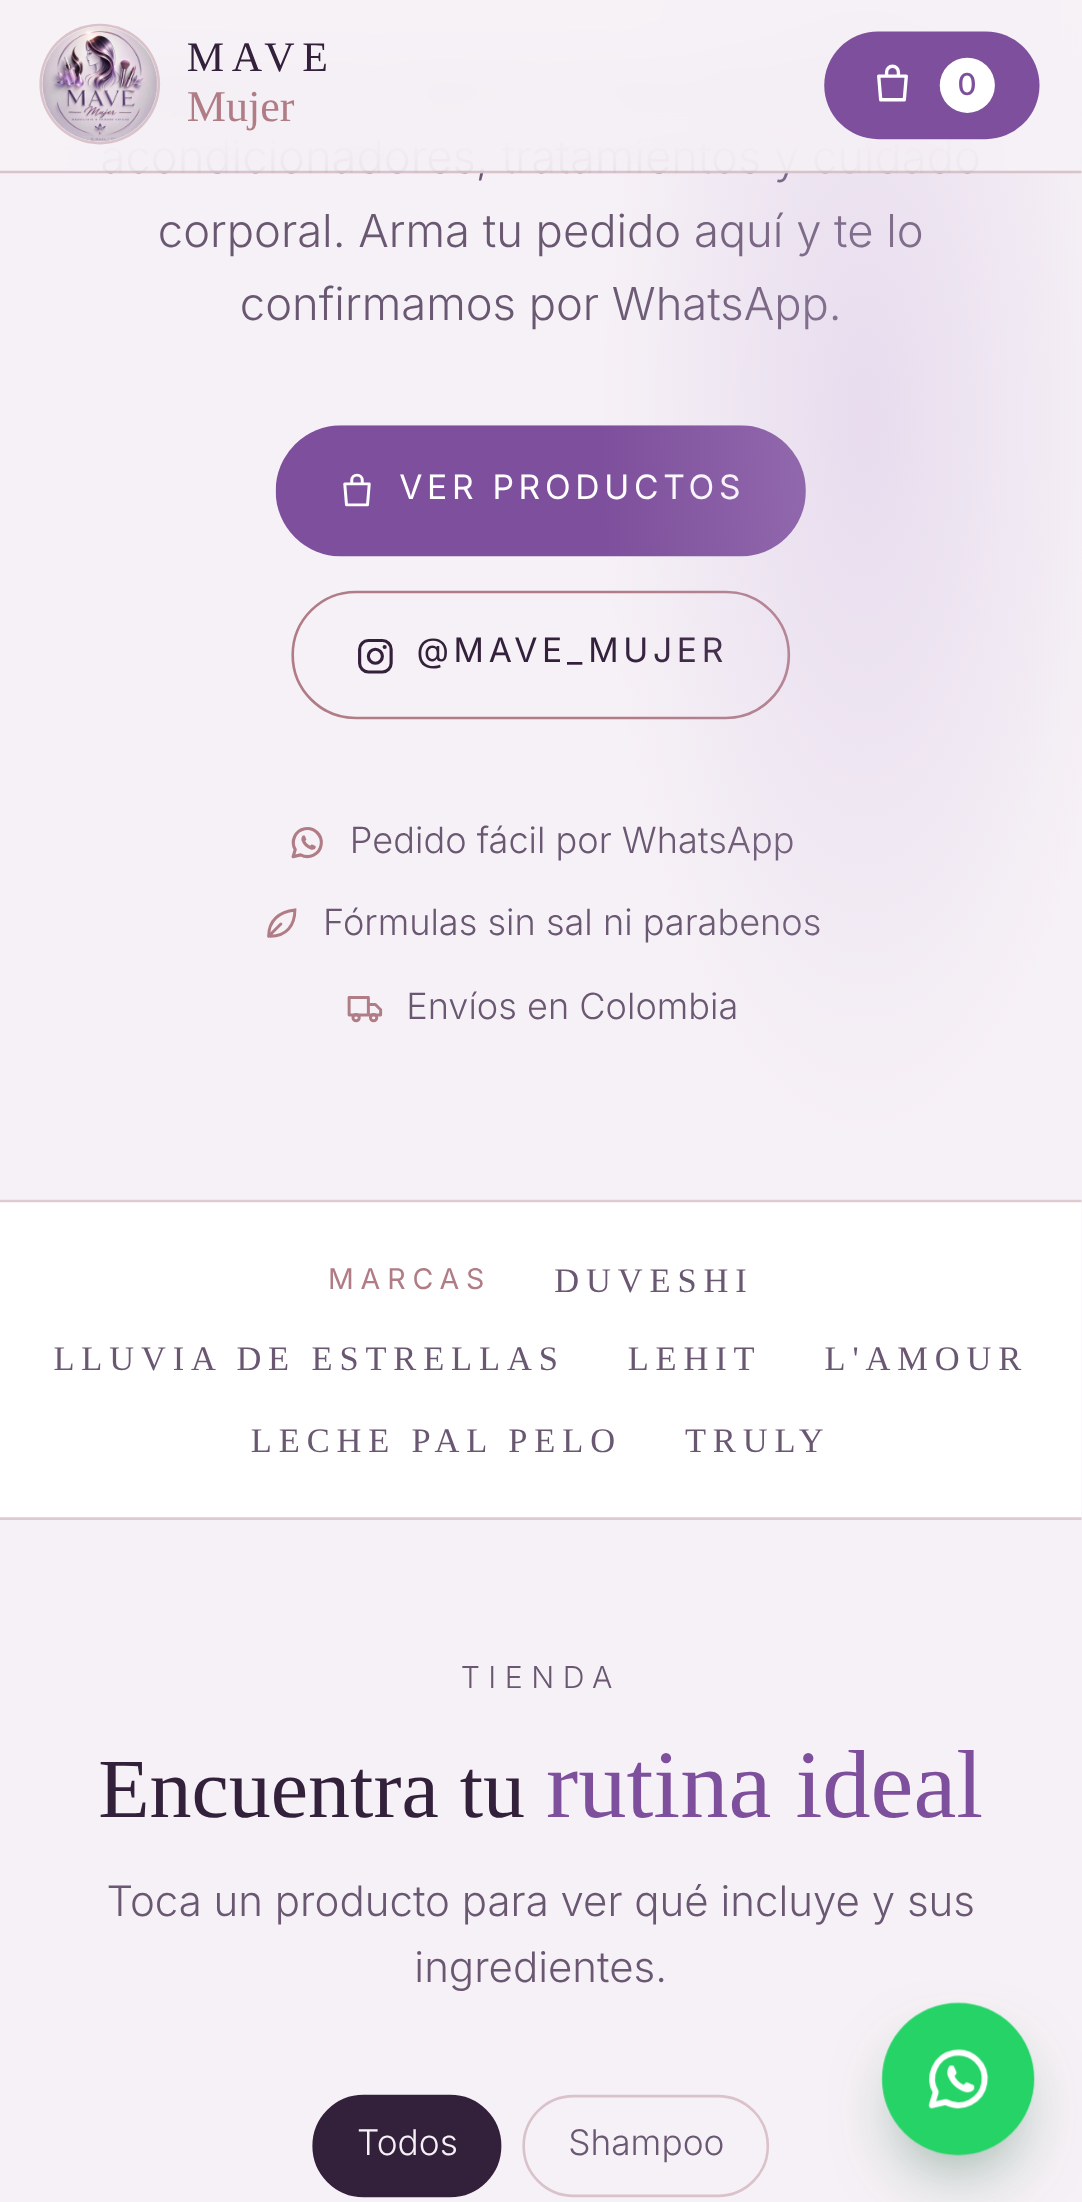
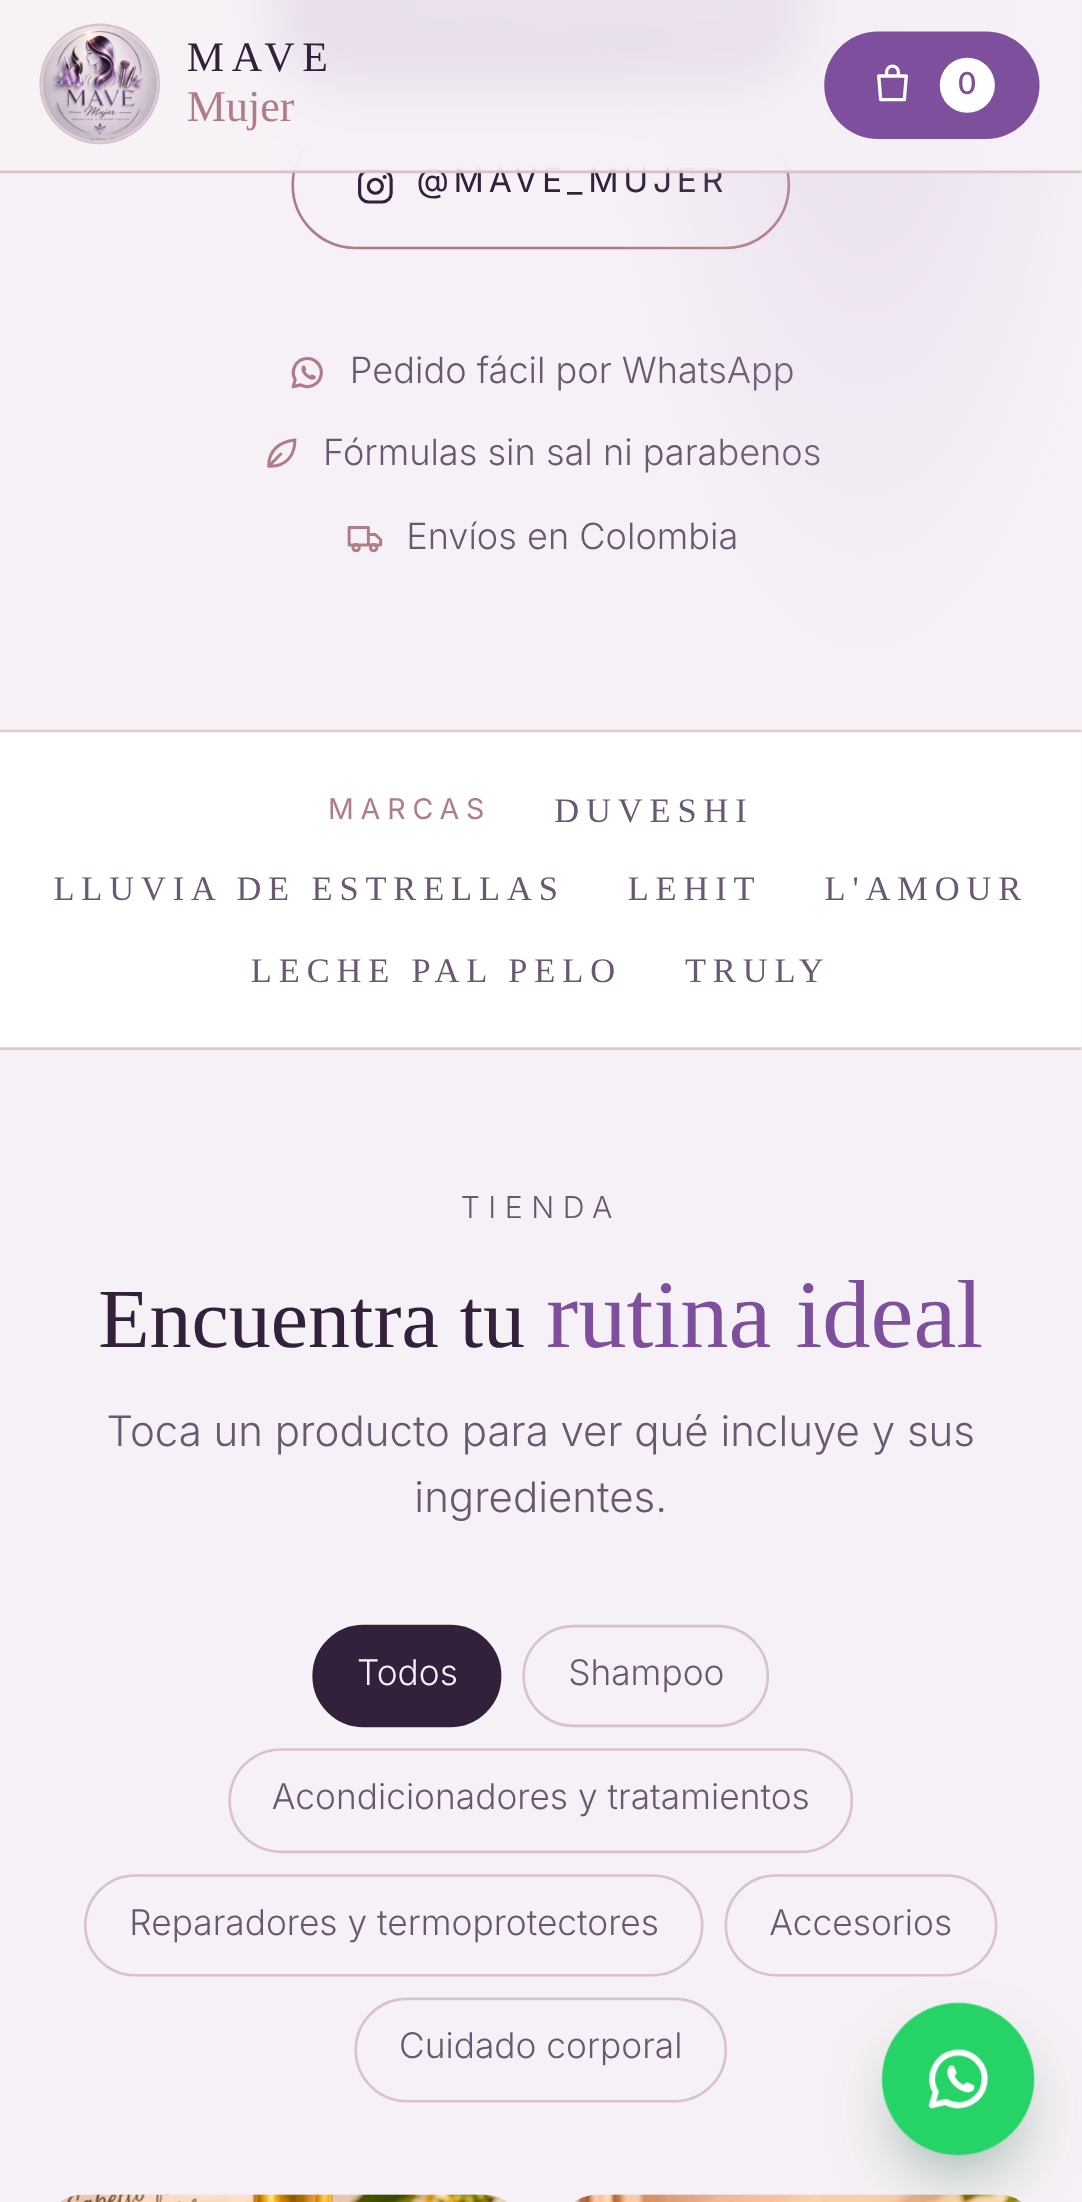
Lo que ya tengo: al contar la estantería se puede poner lo que se pagó por cada unidad
Claude-Session: https://claude.ai/code/session_01PhYMUNaPwGdnEPyHtQvYks

diff --git a/sitio/admin.js b/sitio/admin.js
@@ -337,7 +337,7 @@
     toast(`Deshecho. ${p.name}: ${counted(data) ? units(data.stock) : 'sin contar'}.`);
   });
   function openStock(p) {
-    stockP = p; $('#sd-in').value = ''; $('#sd-count').value = ''; $('#sd-in-cost').value = p.cost != null ? String(p.cost) : '';
+    stockP = p; $('#sd-in').value = ''; $('#sd-count').value = ''; $('#sd-in-cost').value = p.cost != null ? String(p.cost) : ''; $('#sd-count-cost').value = p.cost != null ? String(p.cost) : '';
     $('#sd-sale-n').value = '1'; $('#sd-sale-price').value = String(p.price); $('#sd-sale-ch').value = channel;
     $('#sd-history').innerHTML = '<li class="muted">Cargando…</li>';
     renderStock(); openDlg($('#stock-dlg')); loadHistory(p);
@@ -362,10 +362,23 @@
     if (Number.isNaN(cost)) { toast('Escribe lo que pagaste por unidad, solo números.', true); $('#sd-in-cost').focus(); return; }
     if (await changeStock(stockP, n, { reason: 'entrada', cost })) $('#sd-in').value = '';
   });
+  // Lo que ya hay en la tienda: cuántas unidades y cuánto costó cada una (sirve para la ganancia de las ventas).
+  // Se puede llenar solo uno de los dos.
   $('#sd-count-form').addEventListener('submit', async e => {
-    e.preventDefault(); const n = parseCount($('#sd-count').value);
-    if (n === null || isNaN(n)) { toast('Escribe cuántas unidades hay. Ej.: 10', true); $('#sd-count').focus(); return; }
-    if (await setStock(stockP, n, counted(stockP) ? 'conteo' : 'inicial')) $('#sd-count').value = '';
+    e.preventDefault(); const p = stockP; if (!p) return;
+    const nTxt = $('#sd-count').value.trim(), n = nTxt ? parseCount(nTxt) : null;
+    const costTxt = $('#sd-count-cost').value.trim(), cost = costTxt ? parsePrice(costTxt) : null;
+    if (nTxt && (n === null || isNaN(n))) { toast('Escribe cuántas unidades hay. Ej.: 10', true); $('#sd-count').focus(); return; }
+    if (Number.isNaN(cost)) { toast('Escribe lo que pagaste por unidad, solo números. Ej.: 25000', true); $('#sd-count-cost').focus(); return; }
+    const costChanged = cost !== null && cost !== p.cost;
+    if (!nTxt && !costChanged) { toast(cost === null ? 'Escribe cuántas unidades hay o cuánto pagaste por cada una.' : 'Ese costo ya estaba guardado.', cost === null); return; }
+    if (costChanged) {
+      const { data, error } = await sb.from('products').update({ cost }).eq('id', p.id).select().maybeSingle();
+      if (error || !data) { toast(error ? friendly(error) : 'No se pudo guardar el costo.', true); return; }
+      applyRow(p, data);
+      if (!nTxt) { toast(`${p.name}: costo ${fmt(cost)} c/u guardado.`); return; }
+    }
+    if (await setStock(p, n, counted(p) ? 'conteo' : 'inicial')) $('#sd-count').value = '';
   });
   $('#sd-min-form').addEventListener('submit', async e => {
     e.preventDefault(); const n = parseCount($('#sd-min').value), p = stockP;

diff --git a/pruebas/e2e_deshacer.js b/pruebas/e2e_deshacer.js
@@ -58,6 +58,22 @@ function check(name, ok, extra) { results.push(`${ok ? 'OK   ' : 'FALLA'} ${name
   check('Deshacer todo: historial vacío', true);
   await adm.locator('#stock-dlg [data-close]').tap();
   check('Lista: vuelve a "Contar stock"', await row().locator('[data-stock].btn').count() === 1);
+
+  // Productos que ya estaban en la tienda: contar + poner lo que se pagó c/u, y la venta lleva ese costo
+  const { execSync } = require('child_process');
+  const q = sql => execSync(`psql -qAt -h /var/run/postgresql -d mave -c "${sql}"`).toString().trim();
+  const other = q("select id from public.products where id <> 'masmelo' order by id limit 1");
+  await adm.locator(`.row[data-id="${other}"] [data-stock]`).tap(); await adm.waitForSelector('#stock-dlg[open]');
+  await adm.fill('#sd-count', '4'); await adm.fill('#sd-count-cost', '25.000'); await adm.tap('#sd-count-form button');
+  await adm.waitForFunction(() => document.querySelector('#sd-num').textContent === '4');
+  check('Conteo con costo: guarda el costo', q(`select cost from public.products where id='${other}'`) === '25000');
+  check('Conteo con costo: el stock inicial lleva el costo', q(`select unit_cost from public.stock_movements where product_id='${other}' and reason='inicial'`) === '25000');
+  await adm.tap('#sd-dec'); await adm.waitForFunction(() => document.querySelector('#sd-num').textContent === '3');
+  check('Venta posterior lleva el costo', q(`select unit_cost from public.stock_movements where product_id='${other}' and reason='salida'`) === '25000');
+  await adm.fill('#sd-count-cost', '27000'); await adm.tap('#sd-count-form button');
+  await adm.waitForFunction(() => /costo/.test(document.querySelector('#toast').textContent));
+  check('Solo cambiar el costo, sin contar', q(`select cost||'/'||stock from public.products where id='${other}'`) === '27000/3', await adm.textContent('#toast'));
+  await adm.screenshot({ path: SHOTS + '/d3-costo.png' });
   const bad = errors.filter(e => !/status of 400/.test(e)); // el 400 es el "no se puede deshacer" esperado
   check('Sin errores en consola', bad.length === 0, bad.join(' | '));
   await b.close();

diff --git a/sitio/admin.html b/sitio/admin.html
@@ -479,8 +479,12 @@ dialog.fallback{position:fixed;inset:0;margin:auto;z-index:30}
       </div>
       <button class="btn btn-ghost" type="submit">Sumar al stock</button>
     </form>
-    <form class="sd-row" id="sd-count-form">
-      <div class="field"><label for="sd-count">Conté la estantería: hay exactamente</label><input id="sd-count" type="number" inputmode="numeric" min="0" step="1"></div>
+    <form class="sd-form" id="sd-count-form">
+      <span class="lbl">Lo que ya tengo (conté la estantería)</span>
+      <div class="grid3">
+        <div class="field"><label for="sd-count">Hay exactamente</label><input id="sd-count" type="number" inputmode="numeric" min="0" step="1"></div>
+        <div class="field"><label for="sd-count-cost">Pagué c/u</label><input id="sd-count-cost" type="text" inputmode="numeric" autocomplete="off" placeholder="Ej.: 25000"></div>
+      </div>
       <button class="btn btn-ghost" type="submit">Guardar</button>
     </form>
     <form class="sd-row" id="sd-min-form">
